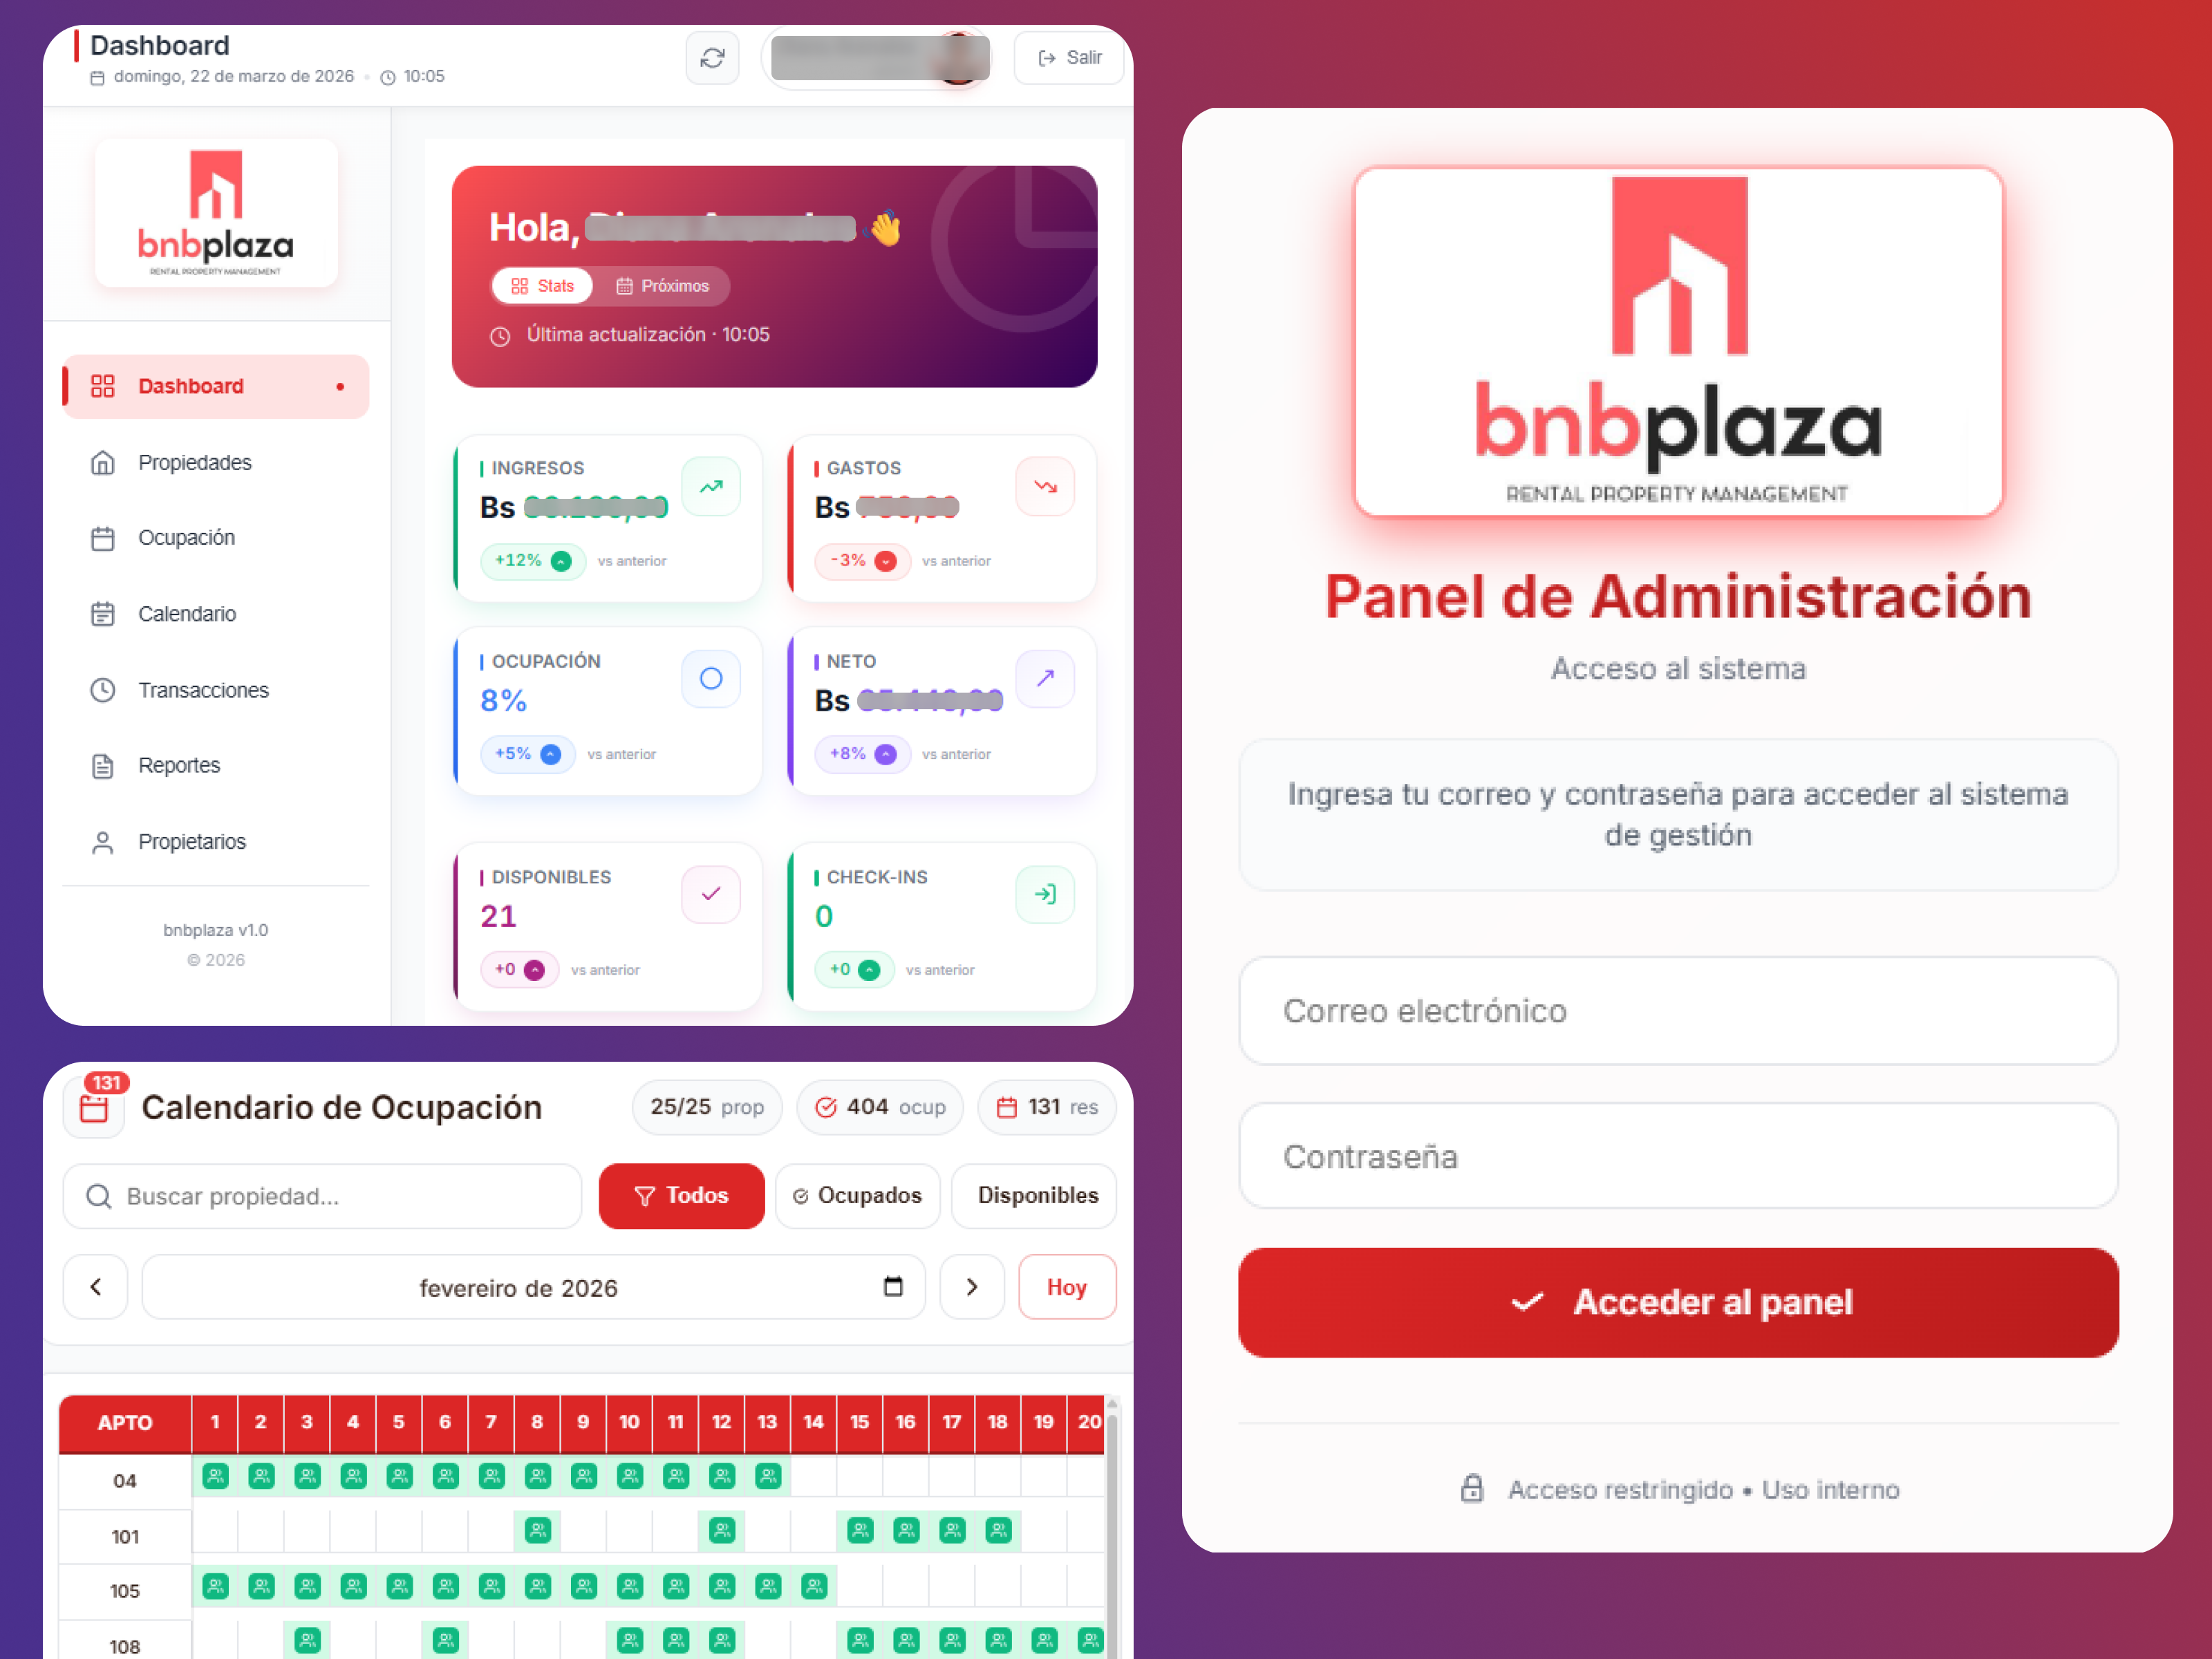
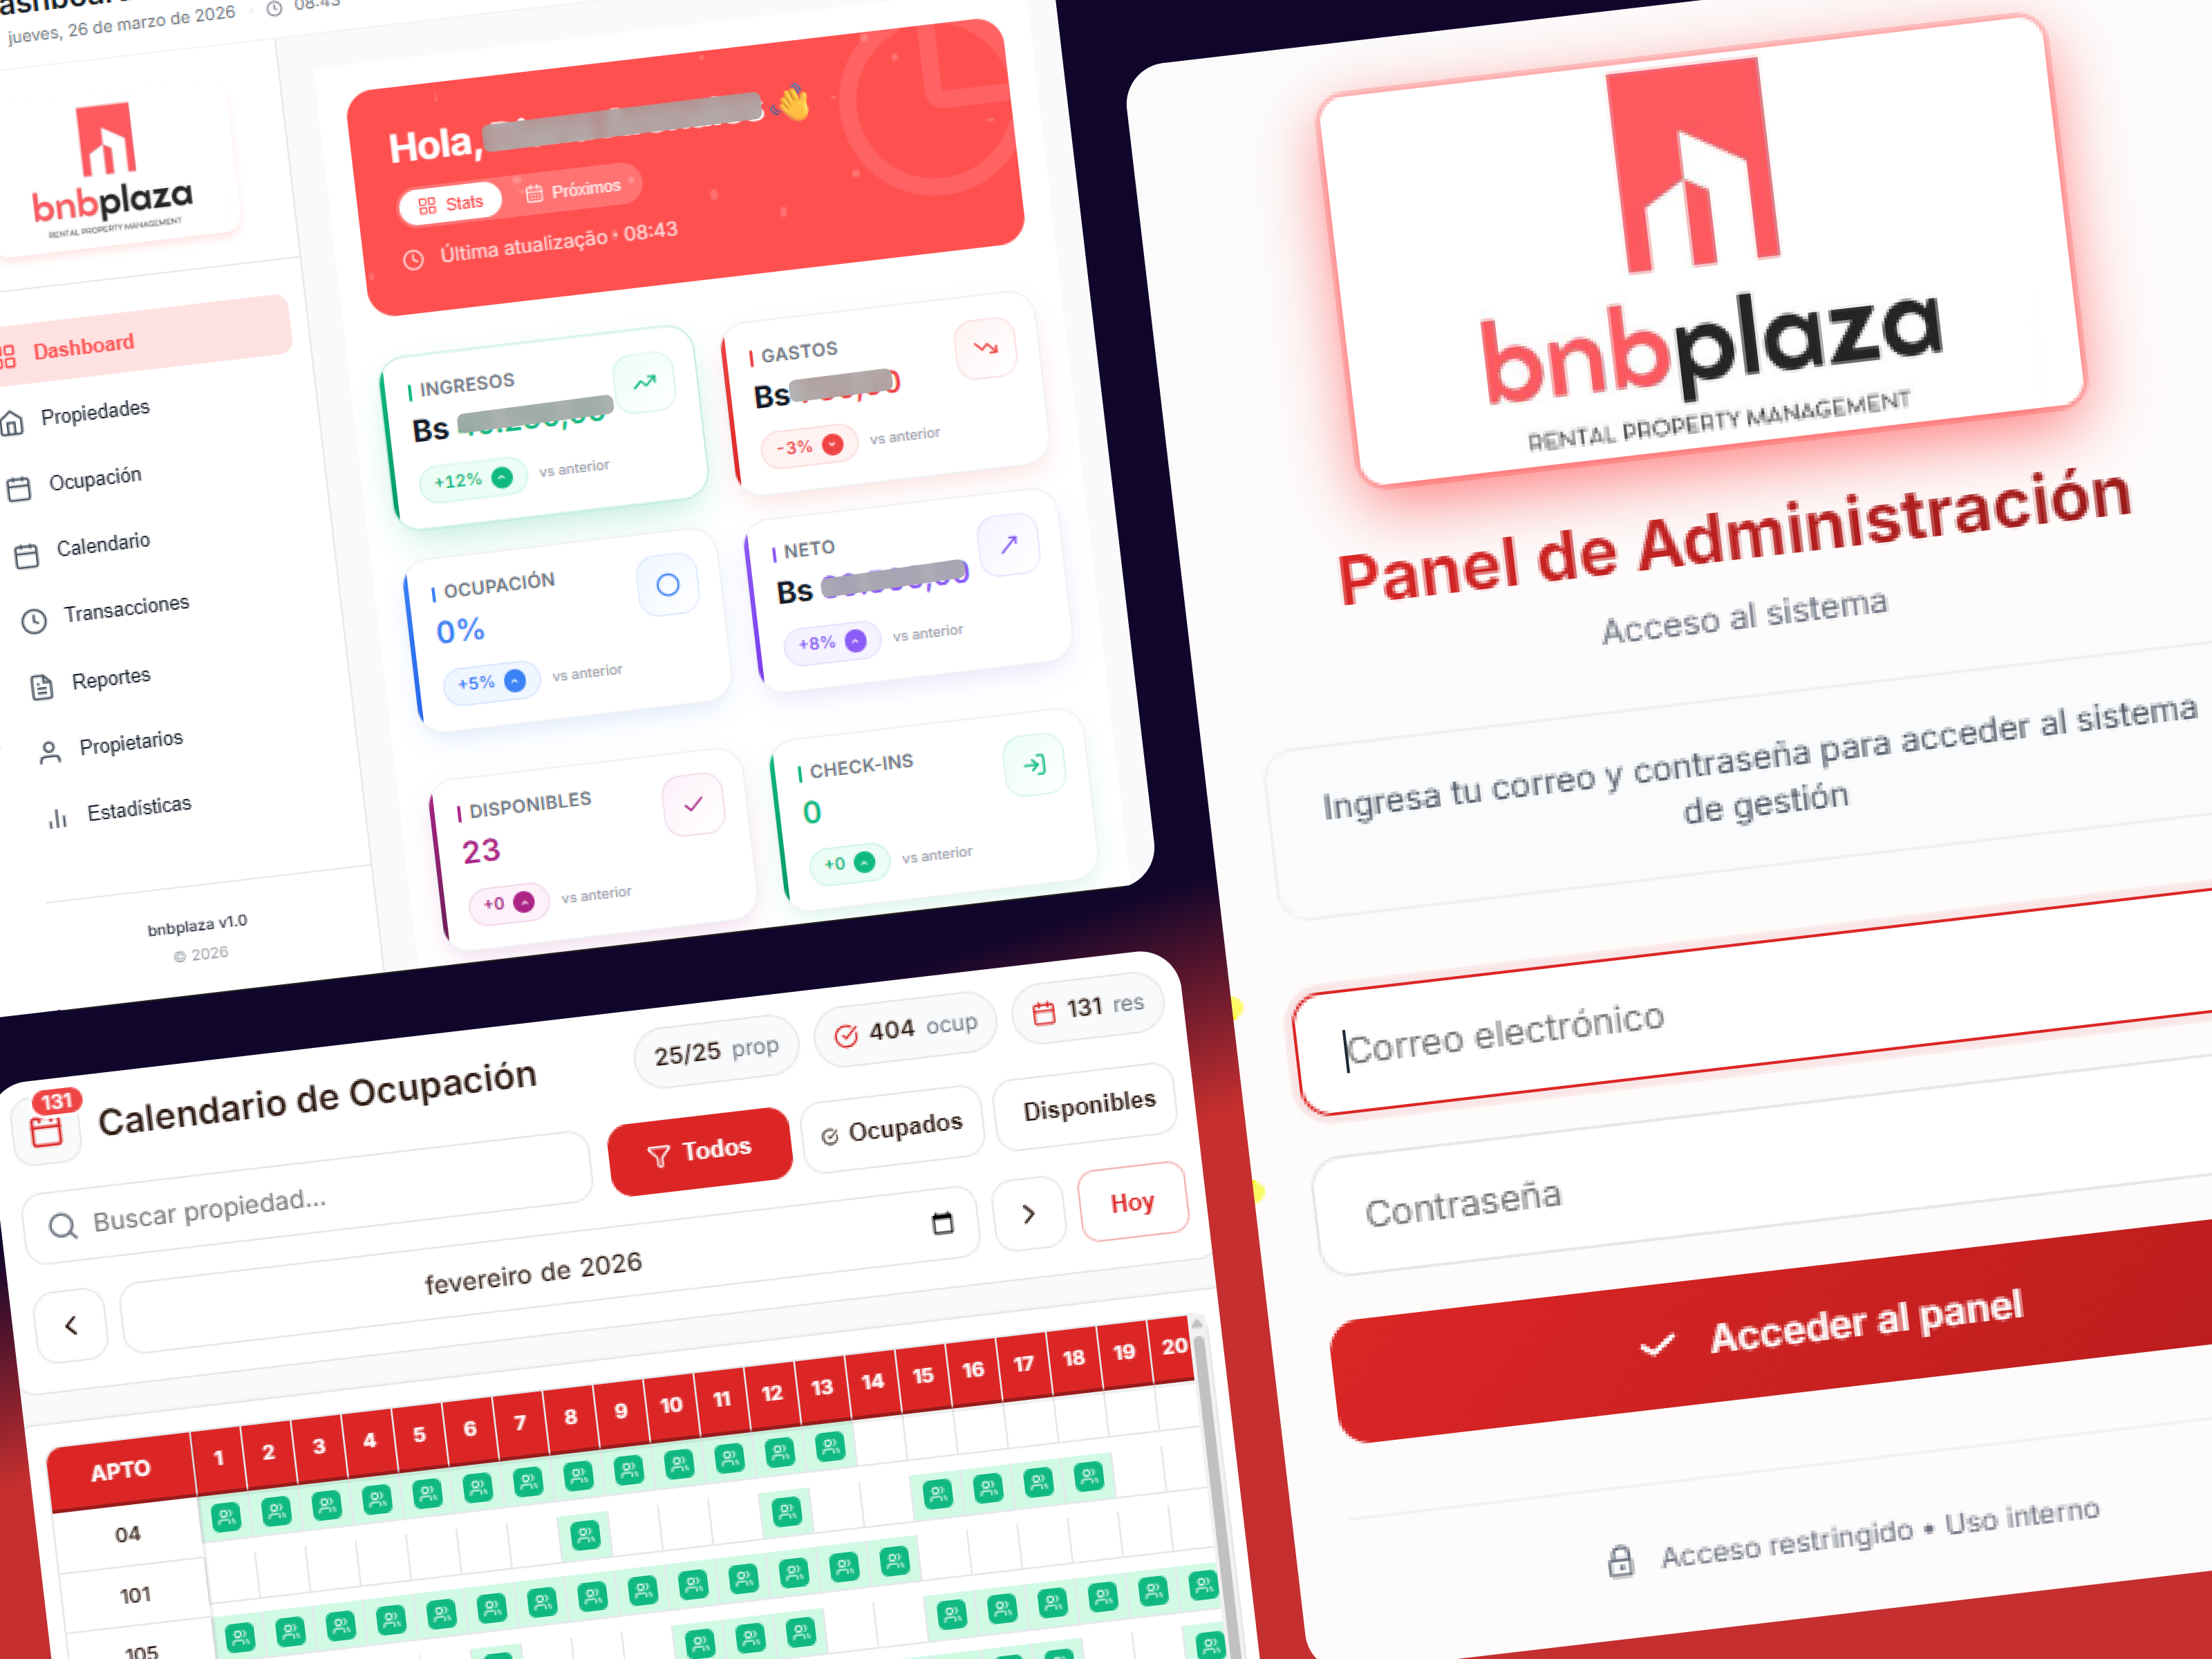
update

diff --git a/src/components/Hero/Hero.tsx b/src/components/Hero/Hero.tsx
@@ -3,26 +3,40 @@ import { ArrowRight, Play } from 'lucide-react'
 import sistemaImage from '../../assets/projects/figma-bnbplaza.png'
 import drBrunoImage from '../../assets/projects/figma-drbruno.png'
 import maxxSorvetesImage from '../../assets/projects/figma-maxsorvetes.png'
+import kushiimg from '../../assets/projects/figma-kushi.png'
+import luckpetimg from '../../assets/projects/figmaluckpet.png'
 
 function Hero() {
   const projects = [
     {
       id: 1,
-      image: sistemaImage,
-      type: 'Sistema',
-      name: 'BNB Plaza'
-    },
-    {
-      id: 2,
       image: drBrunoImage,
       type: 'Site Institucional',
       name: 'Dr. Bruno Ribeiro'
     },
     {
+      id: 2,
+       image: sistemaImage,
+      type: 'Sistema',
+      name: 'BNB Plaza'
+    },
+    {
       id: 3,
       image: maxxSorvetesImage,
       type: 'Site Institucional',
-      name: 'Maxx Sorvetes'
+      name: 'Max Sorvetes'
+    },
+     {
+      id: 4,
+     image: kushiimg,
+type: 'E-commerce',
+name: 'Kushi'
+    },
+    {
+    id: 5,
+image: luckpetimg,
+type: 'E-commerce',
+name: 'LuckPet'
     }
   ]
   